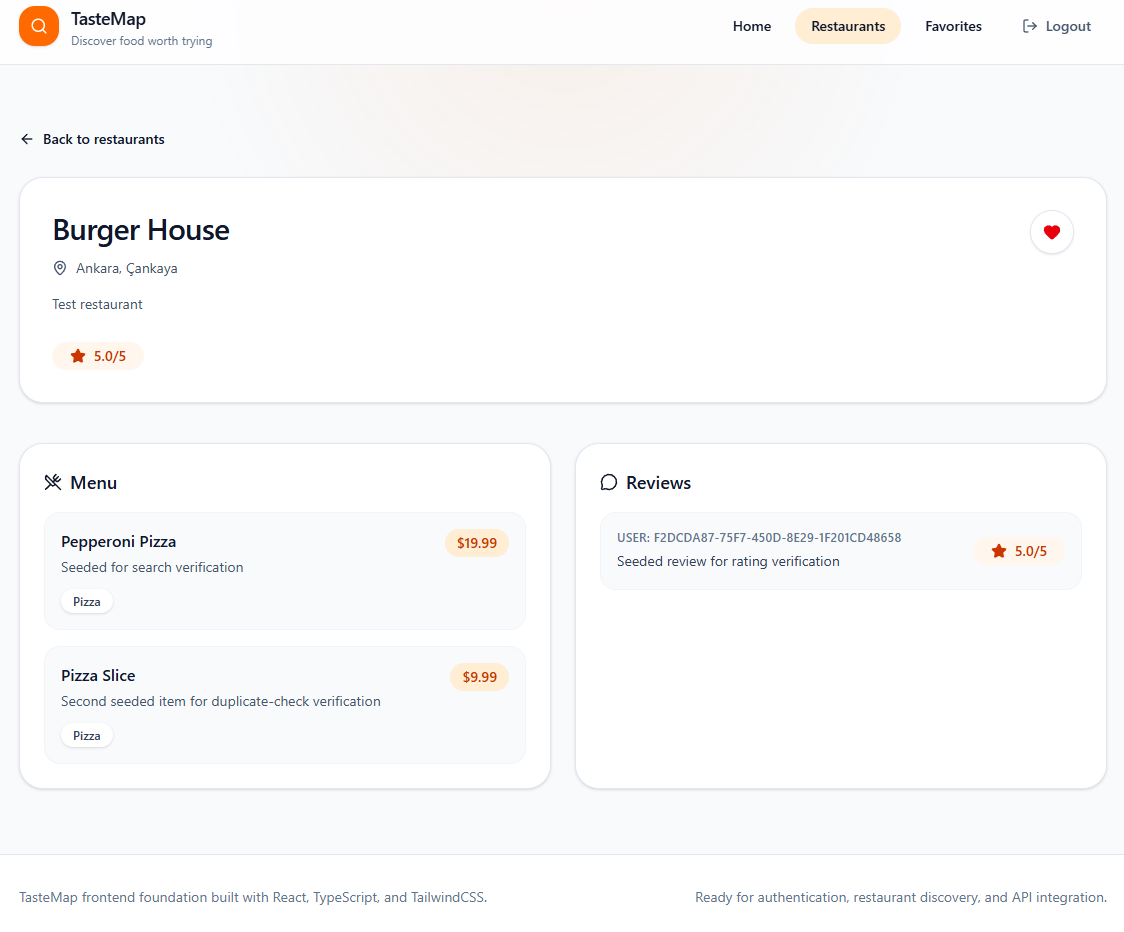
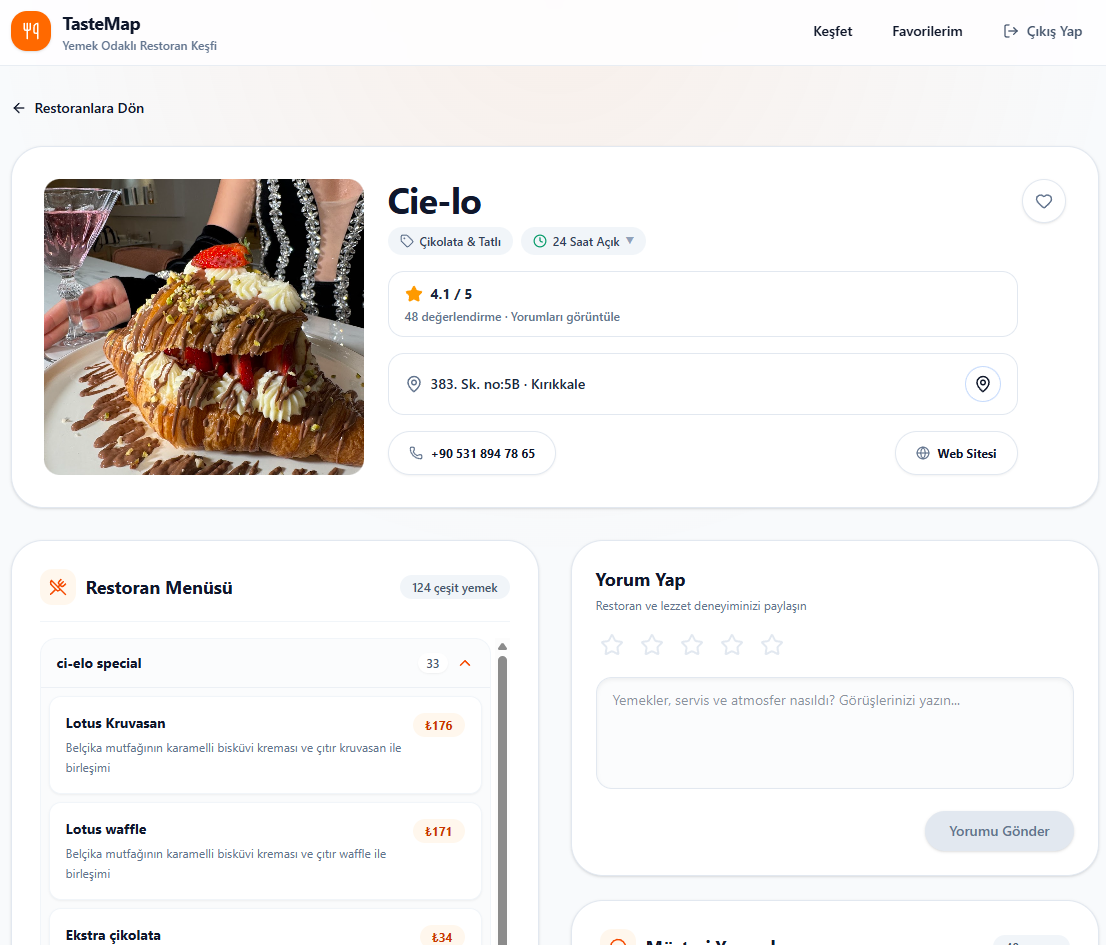
docs: add interface screenshots and update readme showcase

diff --git a/README.md b/README.md
@@ -49,6 +49,19 @@ Security & Exception   Alembic Migrations
 
 ---
 
+## UI & API Showcase
+
+### Restaurant Discovery & Dish Search
+![Homepage](docs/screenshots/homepage.png)
+
+### Venue Details, Live Menu & Reviews
+![Detail Page](docs/screenshots/detailpage.png)
+
+### Interactive API Documentation (Swagger)
+![Swagger UI](docs/screenshots/swagger.png)
+
+---
+
 ## Project Workflow
 
 ### 1. Data Ingestion & Character Sanitization
@@ -88,8 +101,8 @@ Security & Exception   Alembic Migrations
 
 - **Dish-First Search:** Discover meals directly with accurate pricing instead of browsing generic venue lists.
 - **Robust Data Pipeline:** Sanitized real-world review datasets and normalized unstructured digital menus.
-- **Production-Ready Security:** Hardened CORS, parameterized ORM queries against SQL injection, and zero-leak exception handling.
 - **Progressive Menu Coverage:** Currently includes fully enriched digital menus for launch venues; automated ingestion pipeline is expanding coverage for remaining locations progressively.
+- **Production-Ready Security:** Hardened CORS, parameterized ORM queries against SQL injection, and zero-leak exception handling.
 
 ---
 
